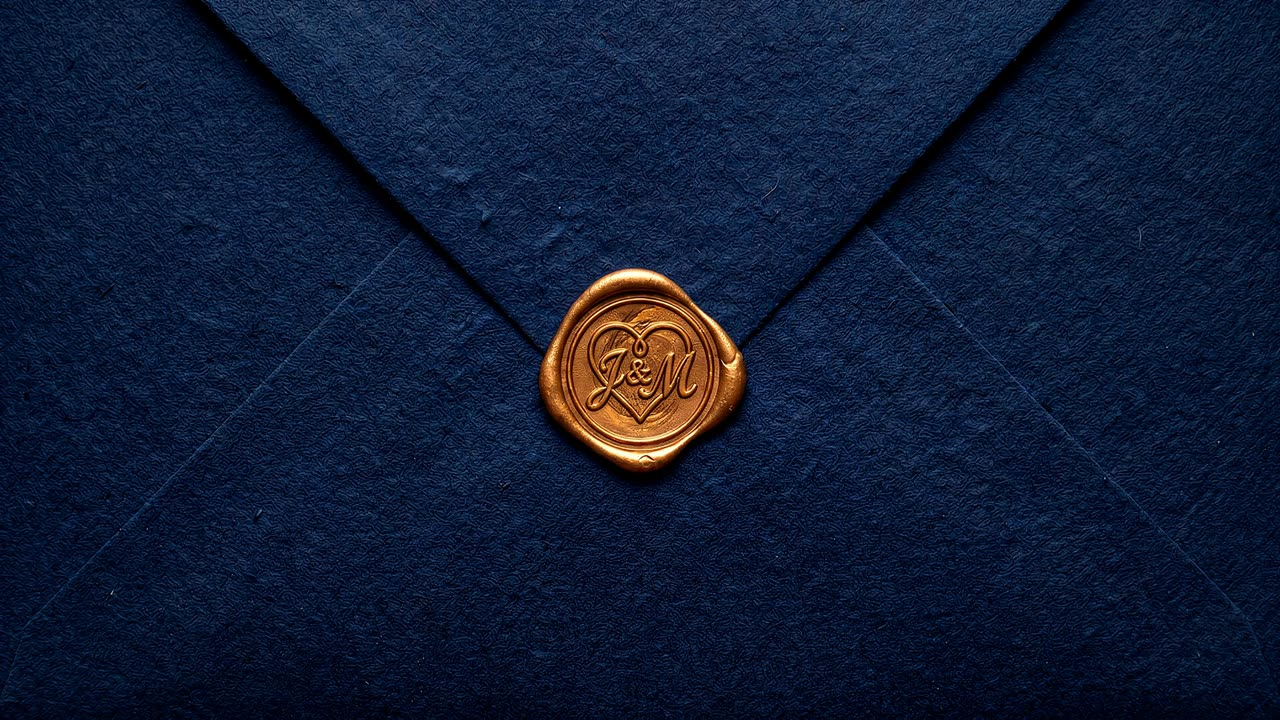
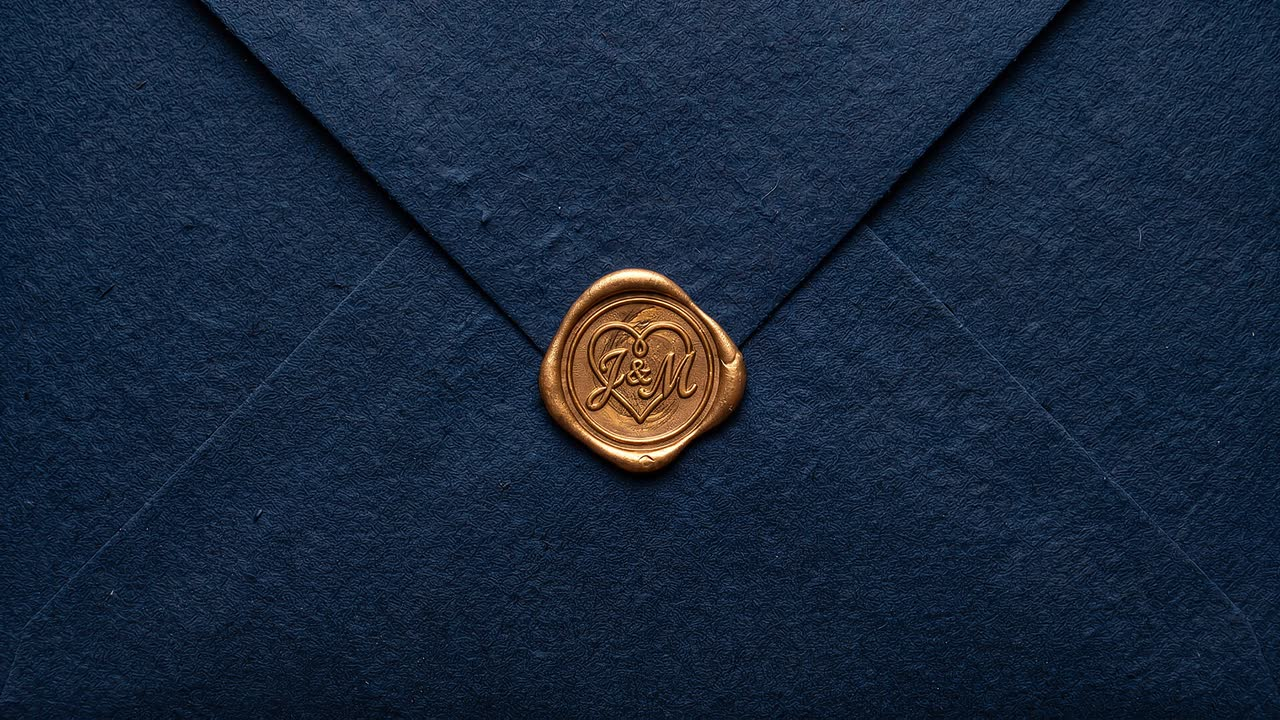
Opening: new overhead macro envelope film + real envelope-open audio
- Replace gate film with the locked-off overhead macro shot (navy paper,
  bronze J&M heart seal) that blooms to warm white; trimmed to 7s so it ends
  on the bloom for a clean fade into the site.
- Rebuild ambient.mp3 from the film's own recorded audio (the real
  envelope-opening sound) crossfading into 'Amore al Mare', leveled and
  balanced (~-20 LUFS, no clipping, graceful end-fade).
- Re-encode film at 1280x720 (mp4 2.3MB / webm 1.5MB, down from 5.6MB).
- Bump opening v13 / ambient v15.

Changed region(s): [[0.4375, 0.4278, 0.5938, 0.6111]]

diff --git a/index.html b/index.html
@@ -70,9 +70,9 @@
      object-fit:cover fills every screen. -->
 <div class="gate" id="gate" role="dialog" aria-modal="true" aria-label="Your invitation">
   <video class="gate__video" id="gateVideo" playsinline muted preload="auto"
-         poster="assets/opening-poster.jpg?v=12" aria-hidden="true">
-    <source src="assets/opening.webm?v=12" type="video/webm" />
-    <source src="assets/opening.mp4?v=12" type="video/mp4" />
+         poster="assets/opening-poster.jpg?v=13" aria-hidden="true">
+    <source src="assets/opening.webm?v=13" type="video/webm" />
+    <source src="assets/opening.mp4?v=13" type="video/mp4" />
   </video>
   <p class="gate__hint" id="gateHint">Tap to open</p>
 </div>
@@ -85,7 +85,7 @@
   <span class="bars" aria-hidden="true"><i></i><i></i><i></i><i></i></span>
 </button>
 <audio id="audioEl" preload="metadata">
-  <source src="assets/ambient.mp3?v=14" type="audio/mpeg" />
+  <source src="assets/ambient.mp3?v=15" type="audio/mpeg" />
 </audio>
 
 <!-- ====================== HEADER ====================== -->